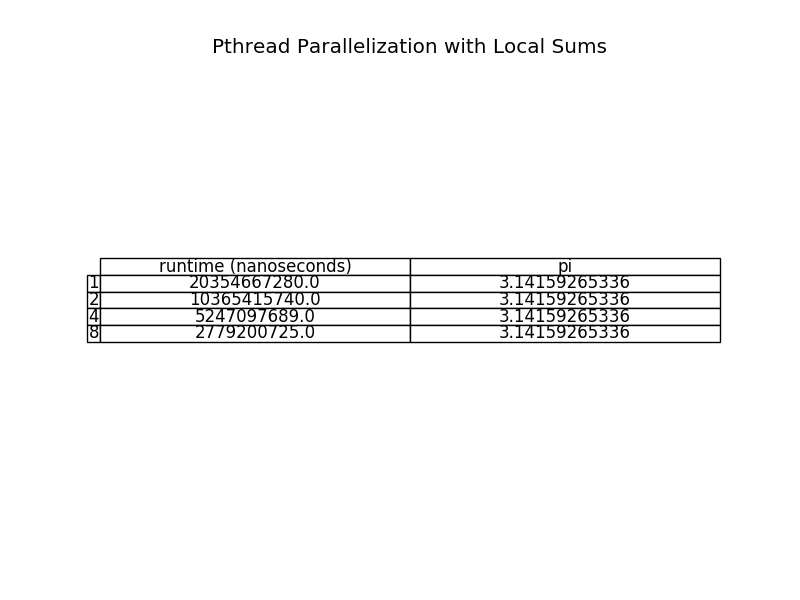
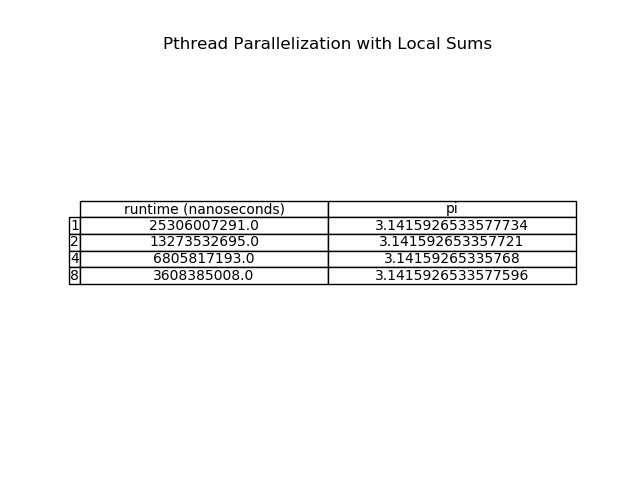
progress

Changed region(s): [[0.0938, 0.4062, 0.9062, 0.5938], [0.25, 0.0625, 0.7812, 0.125]]

diff --git a/pi_plot.py b/pi_plot.py
@@ -3,14 +3,14 @@ import subprocess
 import numpy as np
 from matplotlib import pyplot as plt
 
-print("Running {} in serial...".format(prog), flush=True, end="")
-result = subprocess.run([prog, str(n)], stdout=subprocess.PIPE).stdout.decode("utf-8")
+print("Computing pi in serial...", flush=True, end="")
+result = subprocess.run(["./pi_seq"], stdout=subprocess.PIPE).stdout.decode("utf-8")
 print("\x1B[32mdone\x1B[0m")
 serial_runtime = float(re.search(r"elapsed process CPU time = (.*) nanoseconds", result).group(1))
 
 def plot_nthreads_time(prog, title, show=False, save=False):
     # plot the naive pthread implemenation of computation of pi with 1, 2, 4, 8 threads
-    print("Plotting runtimes of {} with 1, 2, 4, 8 threads...".format(prog))
+    print("Plotting runtimes and speedups of {} with 1, 2, 4, 8 threads...".format(prog))
     runtimes = []
     speedups = []
     pi_vals = []
@@ -47,7 +47,8 @@ def plot_nthreads_time(prog, title, show=False, save=False):
     plt.xlabel("number of threads")
     plt.ylabel("runtime (nanoseconds)")
     plt.axhline(y=serial_runtime, color="r", label="serial")
-    plt.plot(n_threads, times, marker="o")
+    plt.plot(n_threads, runtimes, marker="o")
+    plt.legend()
     if show:
         print("Displaying the plot...")
         plt.show()
@@ -57,7 +58,7 @@ def plot_nthreads_time(prog, title, show=False, save=False):
         print("\x1B[32mdone\x1B[0m")
         plt.close()
 
-    tbl = plt.table(cellText=np.array([times, pi_vals]).T,
+    tbl = plt.table(cellText=np.array([runtimes, pi_vals]).T,
                     rowLabels=n_threads, 
                     colLabels=["runtime (nanoseconds)", "pi"],
                     cellLoc="center",
